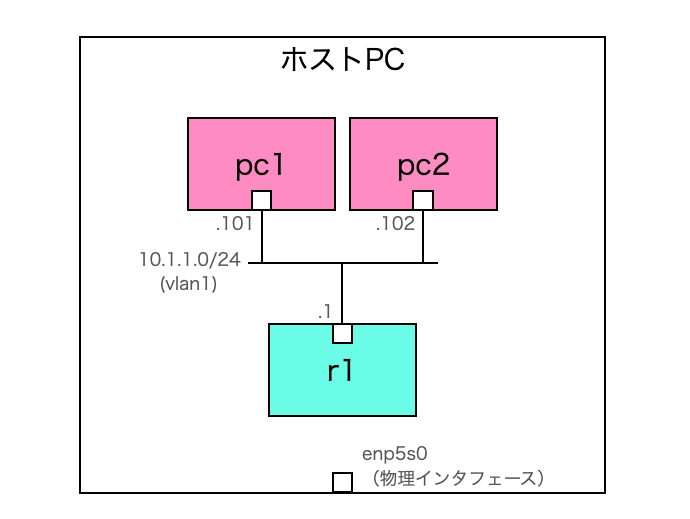
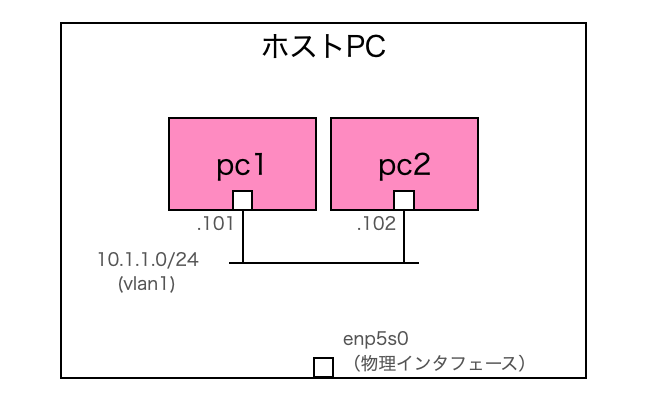
simple01

Changed region(s): [[0.092, 0.0298, 0.8896, 0.9529], [0.1534, 0.6253, 0.3067, 0.7146]]

diff --git a/simple02/README.md b/simple02/README.md
@@ -1,20 +1,23 @@
-# 2. 仮想ルータを挟んでみる
+# 1. 擬似PCを構築する
 
 ## 概要
-前回作成した2台のPC（それぞれDockerコンテナ）間に、Dockerコンテナで作成した仮想ルータを挟んでみます。
+初回の演習として、擬似PCをDockerコンテナで作成し、PC間でping確認を行います。
+ 
 <br>
 
 ## ネットワーク構成
-2台の擬似PCと同じネットワーク上に、仮想ルータr1を接続します。
+下図の通り、Dockerコンテナで作成した2台の擬似PCを、他のネットワークから独立したコンテナネットワーク上で接続します。
  
 <img src="images/topology.png">
  
 <br>
 
 ## 動作確認
-以下を実行し、擬似PCと仮想ルータを一斉起動させます。
+解説は後回しにして、先にpingの動作確認を行ってみます。
+ 
+以下を実行し、擬似PCを一斉起動させます。
 ```Shell
-cd simple02
+cd simple01
 ./up.sh
 ```
 
@@ -23,55 +26,14 @@ cd simple02
 docker exec -it pc1 /bin/sh
 ```
 
-仮想ルータのインタフェース宛てにpingを実行すると応答が返ってきます。
+pc2宛てにpingを実行すると応答が返ってきます。
 ```Shell
-/ # ping 10.1.1.1
-PING 10.1.1.1 (10.1.1.1): 56 data bytes
-64 bytes from 10.1.1.1: seq=0 ttl=64 time=1.074 ms
-64 bytes from 10.1.1.1: seq=1 ttl=64 time=0.258 ms
-64 bytes from 10.1.1.1: seq=2 ttl=64 time=0.167 ms
+/ # ping 10.1.1.102
+PING 10.1.1.102 (10.1.1.102): 56 data bytes
+64 bytes from 10.1.1.102: seq=0 ttl=64 time=0.388 ms
+64 bytes from 10.1.1.102: seq=1 ttl=64 time=0.170 ms
+64 bytes from 10.1.1.102: seq=2 ttl=64 time=0.112 ms
 ```
-
-続いて、仮想ルータのコンテナに入り、ルータのインタフェースを確認してみます。
-```Shell
-docker exec -it r1 /bin/sh
-```
-「vtysh」コマンドを実行してコマンドラインインタフェースを起動し、「show interface」コマンドを実行すると仮想ルータのインタフェース情報を確認できます。
-```
-/ # vtysh
-
-Hello, this is FRRouting (version 8.4.1_git).
-Copyright 1996-2005 Kunihiro Ishiguro, et al.
-
-r1# show interface 
-Interface eth0 is up, line protocol is up
-  Link ups:       0    last: (never)
-  Link downs:     0    last: (never)
-  vrf: default
-  index 2451 metric 0 mtu 1500 speed 4294967295 
-  flags: <UP,BROADCAST,RUNNING,MULTICAST>
-  Type: Ethernet
-  HWaddr: 02:42:ac:00:01:11
-  inet 10.1.1.1/24
-  Interface Type macvlan
-  Interface Slave Type None
-  protodown: off 
-  Parent ifindex: 2447
-Interface lo is up, line protocol is up
-  Link ups:       0    last: (never)
-  Link downs:     0    last: (never)
-  vrf: default
-  index 1 metric 0 mtu 65536 speed 0 
-  flags: <UP,LOOPBACK,RUNNING>
-  Type: Loopback
-  Interface Type Other
-  Interface Slave Type None
-  protodown: off 
-r1# exit
-/ # 
-```
-
-
 
 終了する際は、コンテナを起動したターミナルをCtrl+Cで止め、以下を実行して後片付けします。
 ```
@@ -81,10 +43,9 @@ r1# exit
 
 ## 解説
 
-FRRouting（FRR）という仮想ルータを環境に追加しました。
-FRRはLinux環境で動作するオープンソースのソフトウェアルータで、BGPやOSPFなどの主要なルーティングプロトコルが実装されています。
-
-今回は以下のcompose.yamlを作成して、FRRをDockerコンテナとして起動させています。
+今回はDockerの機能しか使っていないため、Dockerに関する解説になります。
+ 
+PCを擬似したDockerコンテナと、コンテナが使用するネットワークを以下のcompose.yamlに定義して、up.shスクリプト（中身はdocker compose upコマンド）で一斉起動しました。
 
 ```YML
 services:
@@ -99,15 +60,6 @@ services:
       vlan1:
         ipv4_address: 10.1.1.101
         mac_address: "02:42:ac:00:01:01"
-    command:
-      - /bin/sh
-      - -c
-      - |
-        ip route del default via 10.1.1.253
-        ip route add default via 10.1.1.1
-        tail -f /dev/null
-    depends_on:
-      - "r1"
   pc2:
     image: alpine:latest
     container_name: pc2
@@ -119,28 +71,6 @@ services:
       vlan1:
         ipv4_address: 10.1.1.102
         mac_address: "02:42:ac:00:01:02"
-    command:
-      - /bin/sh
-      - -c
-      - |
-        ip route del default via 10.1.1.253
-        ip route add default via 10.1.1.1
-        tail -f /dev/null
-    depends_on:
-      - "r1"
-  r1:
-    image: frrouting/frr:v8.4.1
-    container_name: r1
-    hostname: r1
-    privileged: true
-    volumes:
-      - ./conf/daemons:/etc/frr/daemons:ro
-      - ./conf/vtysh.conf:/etc/frr/vtysh.conf:ro
-      - ./conf/r1_frr.conf:/etc/frr/frr.conf:ro
-    networks:
-      vlan1:
-        ipv4_address: 10.1.1.1
-        mac_address: "02:42:ac:00:01:11"
 
 networks:
   vlan1:
@@ -150,77 +80,86 @@ networks:
     ipam:
       config:
         - subnet: 10.1.1.0/24
-          gateway: 10.1.1.253
+          gateway: 10.1.1.1
 ```
 
-早くもcompose.yamlが巨大化してしまいましたが、順番に少しずつ見ていきたいと思います。
+compose.yamlは大きく２つのセクションで構成されています。
+
+| セクション | 内容 |
+|----|----|
+| services | PC2台分のコンテナの定義。<br>各コンテナで接続先のネットワーク（今回はvlan1）を指定します。 |
+| networks | コンテナが接続するネットワークの定義。<br>今回はmacvlan driverで独立したコンテナネットワークを作成し、サブネットとゲートウェイも定義します。 |
+
+macvlan driverを使用した理由は、この後の演習も含め、同一ホスト上で独立したコンテナネットワークを複数作成するため、です。
  
-```
-networks:
-  vlan1:
-    driver: macvlan
-    driver_opts:
-      parent: ${TRAIN_NIC}.1
-    ipam:
-      config:
-        - subnet: 10.1.1.0/24
-          gateway: 10.1.1.253
-```
-まずネットワークのgatewayを、使用しないIPアドレス（10.1.1.253）に変更しました。前回設定していたIPアドレス（10.1.1.1）をFRRに設定したいため、コンテナネットワークにデフォルトで設定されるゲートウェイアドレスに使用しないIPアドレスを設定しました。
+関連する設定はdriver_opts項目にあります。ここで **parent: ${TRAIN_NIC}.1**と設定することで、ホストPCの物理インターフェース上のサブインタフェース1に、vlan1という名前のコンテナネットワークが構築されます。
 
-```
-services:
-  pc1:
+この設定でコンテナを起動すると、ホストPC上では以下のようにサブインタフェース1（以下の例ではenp0s5.1@enp0s5）が作られているのがわかります。
 
-    command:
-      - /bin/sh
-      - -c
-      - |
-        ip route del default via 10.1.1.253
-        ip route add default via 10.1.1.1
-        tail -f /dev/null
+```Shell
+$ ip addr
+1: lo: <LOOPBACK,UP,LOWER_UP> mtu 65536 qdisc noqueue state UNKNOWN group default qlen 1000
+    link/loopback 00:00:00:00:00:00 brd 00:00:00:00:00:00
+    inet 127.0.0.1/8 scope host lo
+       valid_lft forever preferred_lft forever
+    inet6 ::1/128 scope host 
+       valid_lft forever preferred_lft forever
+2: enp0s5: <BROADCAST,MULTICAST,UP,LOWER_UP> mtu 1500 qdisc fq_codel state UP group default qlen 1000
+    link/ether 00:1c:42:97:2b:40 brd ff:ff:ff:ff:ff:ff
+    inet 10.211.55.6/24 metric 100 brd 10.211.55.255 scope global dynamic enp0s5
+       valid_lft 1743sec preferred_lft 1743sec
+    inet6 fdb2:2c26:f4e4:0:21c:42ff:fe97:2b40/64 scope global dynamic mngtmpaddr noprefixroute 
+       valid_lft 2591911sec preferred_lft 604711sec
+    inet6 fe80::21c:42ff:fe97:2b40/64 scope link 
+       valid_lft forever preferred_lft forever
+4: docker0: <NO-CARRIER,BROADCAST,MULTICAST,UP> mtu 1500 qdisc noqueue state DOWN group default 
+    link/ether 02:42:d6:3a:8d:52 brd ff:ff:ff:ff:ff:ff
+8: br-5f195c875120: <NO-CARRIER,BROADCAST,MULTICAST,UP> mtu 1500 qdisc noqueue state DOWN group default 
+    link/ether 02:42:c8:8b:5d:f7 brd ff:ff:ff:ff:ff:ff
+11: br-ebd648b5fa24: <NO-CARRIER,BROADCAST,MULTICAST,UP> mtu 1500 qdisc noqueue state DOWN group default 
+    link/ether 02:42:02:fc:33:c3 brd ff:ff:ff:ff:ff:ff
+13: br-171dfefd0e3f: <NO-CARRIER,BROADCAST,MULTICAST,UP> mtu 1500 qdisc noqueue state DOWN group default 
+    link/ether 02:42:44:9e:ff:e1 brd ff:ff:ff:ff:ff:ff
+2408: enp0s5.1@enp0s5: <BROADCAST,MULTICAST,UP,LOWER_UP> mtu 1500 qdisc noqueue state UP group default 
+    link/ether 00:1c:42:97:2b:40 brd ff:ff:ff:ff:ff:ff
+    inet6 fe80::21c:42ff:fe97:2b40/64 scope link 
+       valid_lft forever preferred_lft forever
 ```
-これに関連して、擬似PCのデフォルトゲートウェイ設定も、起動時にip routeコマンドで変更しなおしています。
 
+通信の経路を確認するために、2つのPC間でpingを実行してみます。
+```Shell
+$ docker exec -it pc1 /bin/sh
+WARN[0000] The "TRAIN_NIC" variable is not set. Defaulting to a blank string. 
+/ # ping 10.1.1.102
+PING 10.1.1.102 (10.1.1.102): 56 data bytes
+64 bytes from 10.1.1.102: seq=0 ttl=64 time=2.594 ms
+64 bytes from 10.1.1.102: seq=1 ttl=64 time=0.263 ms
+64 bytes from 10.1.1.102: seq=2 ttl=64 time=0.218 ms
 ```
-  r1:
-    image: frrouting/frr:v8.4.1
-    container_name: r1
-    hostname: r1
-    privileged: true
-    volumes:
-      - ./conf/daemons:/etc/frr/daemons:ro
-      - ./conf/vtysh.conf:/etc/frr/vtysh.conf:ro
-      - ./conf/r1_frr.conf:/etc/frr/frr.conf:ro
-    networks:
-      vlan1:
-        ipv4_address: 10.1.1.1
-        mac_address: "02:42:ac:00:01:11"
+
+pingを実行している最中に、別のターミナルでホストPCのサブインタフェース1（以下の例ではenp0s5.1）を指定してtcpdumpを行ってみます。
+
+```Shell
+$ sudo tcpdump -i enp0s5.1 -nn
+tcpdump: verbose output suppressed, use -v[v]... for full protocol decode
+listening on enp0s5.1, link-type EN10MB (Ethernet), snapshot length 262144 bytes
+23:35:05.095951 IP 10.1.1.101 > 10.1.1.102: ICMP echo request, id 22, seq 0, length 64
+23:35:05.096027 IP 10.1.1.102 > 10.1.1.101: ICMP echo reply, id 22, seq 0, length 64
+23:35:06.097768 IP 10.1.1.101 > 10.1.1.102: ICMP echo request, id 22, seq 1, length 64
+23:35:06.097782 IP 10.1.1.102 > 10.1.1.101: ICMP echo reply, id 22, seq 1, length 64
+23:35:07.098328 IP 10.1.1.101 > 10.1.1.102: ICMP echo request, id 22, seq 2, length 64
+23:35:07.098360 IP 10.1.1.102 > 10.1.1.101: ICMP echo reply, id 22, seq 2, length 64
 ```
-仮想ルータのFRRは上記の定義で起動しています。
+
+コンテナ間のping通信がキャプチャできています。
  
-FRR起動時に3つのファイル「daemons」「vtysh.conf」「frr.conf」が必要ですが、ホストPC側で用意したファイルをマウントして読み込ませています。なお、これらのファイルは読み込みとしてしか使わないため、read-onlyを意味する「:ro」も付与しています。
+なおこのサブインタフェース1はホストPCの物理インタフェースとは独立であるため、ホストPCの物理インタフェース（以下の例ではenp0s5）を指定してtcpdumpしてもping通信は見えません。
 
-先ほどの動作確認の通り、FRRはvtyshというコマンドラインインタフェースを起動することで、Ciscoルータにあるような各種showコマンドを実行できるようになります。
+```Shell
+parallels@ubuntu02:~$ sudo tcpdump -i enp0s5 -nn
+tcpdump: verbose output suppressed, use -v[v]... for full protocol decode
+listening on enp0s5, link-type EN10MB (Ethernet), snapshot length 262144 bytes
 ```
-/ # vtysh
-
-Hello, this is FRRouting (version 8.4.1_git).
-Copyright 1996-2005 Kunihiro Ishiguro, et al.
-
-r1# show running-config 
-Building configuration...
-
-Current configuration:
-!
-frr version 8.4.1_git
-frr defaults traditional
-hostname r1
-no ipv6 forwarding
-service integrated-vtysh-config
-!
-end
-```
-
 <br>
-次回はFRRを経由して擬似PCが外部NWへ通信できるようにしてみます。
+最もシンプルなネットワークが構築できました。次回の演習では2台のPC間にルータを挟んでみます。
+

diff --git a/simple01/README.md b/simple01/README.md
@@ -1,24 +1,26 @@
-# 1. 擬似PCを構築する
+# 1. 擬似PCをデプロイする
 
 ## 概要
-初回の演習として、擬似PCをDockerコンテナで作成し、PC間でping確認を行います。
+最初の演習として、擬似PCをDockerコンテナで作成し、擬似PCの中を覗いてみます。
  
 <br>
 
 ## ネットワーク構成
-下図の通り、Dockerコンテナで作成した2台の擬似PCを、他のネットワークから独立したコンテナネットワーク上で接続します。
+まだこの段階ではネットワークは意識しません。
+ 
+ 下図の通り、pc1-1という名前のDockerコンテナをVM1にデプロイします。このpc1-1を擬似PCとして今後も使っていきます。
  
 <img src="images/topology.png">
  
 <br>
 
 ## 動作確認
-解説は後回しにして、先にpingの動作確認を行ってみます。
+解説は後回しにして、先に擬似PCのデプロイを行ってみます。
  
-以下を実行し、擬似PCを一斉起動させます。
+simple01内のup1.shスクリプトを実行すると、VM1内に擬似PCがデプロイされます。
 ```Shell
 cd simple01
-./up.sh
+./up1.sh
 ```
 
 別のターミナルを開き、pc1のコンテナに入ってpingを実行します。

diff --git a/simple04/README.md b/simple04/README.md
@@ -1,11 +1,11 @@
-# 2. 仮想ルータを挟んでみる
+# 3. 仮想ルータから外部NWへ通信できるようにする
 
 ## 概要
-前回作成した2台のPC（それぞれDockerコンテナ）間に、Dockerコンテナで作成した仮想ルータを挟んでみます。
+前回作成した仮想ルータを経由して、擬似PCからホストPCの外へ通信できるようにしてみます。
 <br>
 
 ## ネットワーク構成
-2台の擬似PCと同じネットワーク上に、仮想ルータr1を接続します。
+ホストPCの物理インタフェースを仮想ルータに接続し、外部ネットワーク（下図では10.211.55.0/24）にアクセスできるようにします。
  
 <img src="images/topology.png">
  
@@ -14,7 +14,7 @@
 ## 動作確認
 以下を実行し、擬似PCと仮想ルータを一斉起動させます。
 ```Shell
-cd simple02
+cd simple03
 ./up.sh
 ```
 
